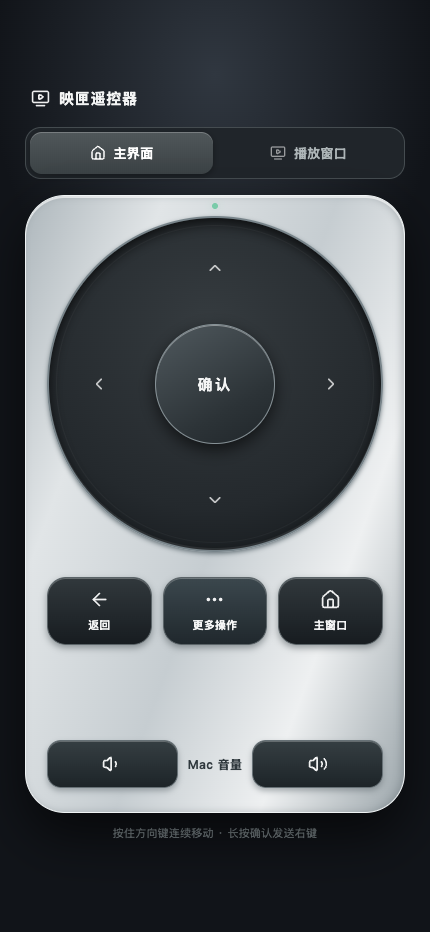
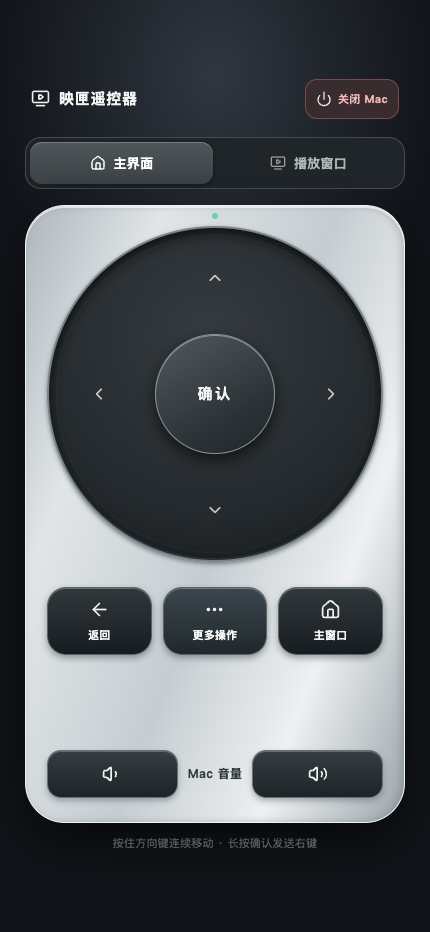
feat: 添加带二次确认的 Mac 关机功能

diff --git a/index.html b/index.html
@@ -17,6 +17,10 @@
     .topline { display: flex; align-items: center; justify-content: space-between; margin: 0 6px 18px; }
     .brand { display: flex; align-items: center; gap: 9px; font-size: 15px; font-weight: 700; letter-spacing: .03em; }
     .brand .icon { width: 19px; height: 19px; }
+    .shutdown { min-height: 40px; padding: 8px 10px; display: flex; align-items: center; gap: 6px; border: 1px solid #784b4b; border-radius: 12px; background: #382c2f; color: #f1b6b6; font-size: 11px; font-weight: 650; }
+    .shutdown .icon { width: 16px; height: 16px; }
+    .shutdown.is-pressed { transform: translateY(1px); background: #51383d; }
+    .shutdown:disabled { opacity: .55; cursor: progress; }
     .connection { position: absolute; top: 10px; left: 50%; width: 6px; height: 6px; transform: translate(-50%, -50%); border-radius: 50%; background: #7acba9; box-shadow: 0 0 9px #7acba960; pointer-events: none; }
     .connection[data-state="error"] { background: #ed8585; box-shadow: 0 0 9px #ed858560; }
     .mode-picker { display: grid; grid-template-columns: 1fr 1fr; padding: 4px; margin-bottom: 16px; gap: 4px; background: #20252a; border: 1px solid #454c50; border-radius: 16px; }
@@ -55,7 +59,8 @@
     body[data-mode="player"] .player-only { display: flex; }
     body[data-mode="player"] .browse-only { display: none; }
     .status { position: absolute; width: 1px; height: 1px; padding: 0; margin: -1px; overflow: hidden; clip-path: inset(50%); white-space: nowrap; }
-    .status[data-kind="error"] { position: fixed; z-index: 4; inset: auto 18px max(20px, env(safe-area-inset-bottom)) 18px; width: auto; height: auto; max-width: 380px; margin: 0 auto; padding: 12px 16px; overflow: visible; clip-path: none; white-space: normal; text-align: center; border: 1px solid #b76a6a; border-radius: 14px; color: #ffe1e1; background: #42282ddd; box-shadow: 0 8px 24px #0008; font-size: 12px; line-height: 1.4; }
+    .status[data-kind="error"], .status[data-kind="notice"] { position: fixed; z-index: 4; inset: auto 18px max(20px, env(safe-area-inset-bottom)) 18px; width: auto; height: auto; max-width: 380px; margin: 0 auto; padding: 12px 16px; overflow: visible; clip-path: none; white-space: normal; text-align: center; border: 1px solid #b76a6a; border-radius: 14px; color: #ffe1e1; background: #42282ddd; box-shadow: 0 8px 24px #0008; font-size: 12px; line-height: 1.4; }
+    .status[data-kind="notice"] { border-color: #578a73; color: #d6f3e5; background: #243c32ee; }
     .tip { margin: 12px 8px 0; text-align: center; color: #798387; font-size: 11px; line-height: 1.5; }
     .player-tip { display: none; }
     body[data-mode="player"] .browse-tip { display: none; }
@@ -76,7 +81,8 @@
     }
     @media (max-height: 700px) { .tip { display: none !important; } }
     @media (max-height: 520px) and (max-width: 599px) {
-      .topline { display: none; }
+      .brand { display: none; }
+      .topline { justify-content: flex-end; }
       .mode-picker button { height: 32px; }
       .remote { padding: 8px 12px 10px; }
       .connection { top: 4px; }
@@ -104,6 +110,7 @@
   <main class="shell">
     <div class="topline">
       <div class="brand"><img class="icon" src="/icons/tv-minimal-play.svg" alt="" />映匣遥控器</div>
+      <button type="button" class="shutdown" id="shutdown"><img class="icon" src="/icons/power.svg" alt="" /><span>关闭 Mac</span></button>
     </div>
     <div class="mode-picker" aria-label="控制窗口">
       <button type="button" data-mode-choice="browse" aria-pressed="true"><img class="icon" src="/icons/house.svg" alt="" />主界面</button>
@@ -139,6 +146,7 @@
   <script>
     const status = document.querySelector('#status');
     const connection = document.querySelector('#connection');
+    const shutdownCommand = 'shutdown';
     let busy = false;
     let repeatTimer;
     let repeatInterval;
@@ -151,17 +159,20 @@
       connection.dataset.state = kind === 'error' ? 'error' : 'ok';
     }
 
-    async function send(command, mode = document.body.dataset.mode) {
+    async function send(command, mode = document.body.dataset.mode, confirmation) {
       if (busy) return false;
       busy = true;
       try {
+        const request = { mode, command };
+        if (confirmation) request.confirmation = confirmation;
         const response = await fetch('/command', {
           method: 'POST', headers: { 'Content-Type': 'application/json' },
-          body: JSON.stringify({ mode, command }),
+          body: JSON.stringify(request),
         });
         const message = await response.text();
         if (!response.ok) throw new Error(message);
-        feedback(command === 'activate' || command.startsWith('volume_') || mode === 'browse' ? message : '已发送：' + commandLabel(command));
+        if (command === shutdownCommand) feedback(message, 'notice');
+        else feedback(command === 'activate' || command.startsWith('volume_') || mode === 'browse' ? message : '已发送：' + commandLabel(command));
         return true;
       } catch (error) {
         feedback(error.message || '连接失败', 'error');
@@ -178,6 +189,15 @@
       button.classList.add('is-pressed');
       if (!sustained) window.setTimeout(() => button.classList.remove('is-pressed'), 190);
     }
+
+    const shutdown = document.querySelector('#shutdown');
+    shutdown.addEventListener('click', async () => {
+      if (busy || !window.confirm('确定关闭这台 Mac 吗？\nMac 将退出所有应用并关机，请先保存未完成的工作。')) return;
+      tactile(shutdown);
+      shutdown.disabled = true;
+      try { await send(shutdownCommand, document.body.dataset.mode, shutdownCommand); }
+      finally { shutdown.disabled = false; }
+    });
 
     document.querySelectorAll('[data-mode-choice]').forEach(button => {
       button.addEventListener('pointerdown', () => tactile(button, true));

diff --git a/MacRemoteApp.swift b/MacRemoteApp.swift
@@ -6,6 +6,7 @@ import Foundation
 
 private let port: UInt16 = 8765
 private let targetBundleID = "com.jo32.yingxia.mac"
+private let shutdownCommand = "shutdown"
 private let keyCodes = [
     "up": 126, "down": 125, "left": 123, "right": 124,
     "select": 36, "back": 53, "play": 49, "fullscreen": 3, "mute": 46,
@@ -218,6 +219,10 @@ private final class RemoteServer {
         guard let request = (try? JSONSerialization.jsonObject(with: body)) as? [String: String],
               let mode = request["mode"], ["browse", "player"].contains(mode),
               let command = request["command"] else { return Response(400, "指令格式错误") }
+        if command == shutdownCommand {
+            guard request["confirmation"] == shutdownCommand else { return Response(400, "请先确认关闭 Mac") }
+            return shutdown()
+        }
         if command == "volume_up" || command == "volume_down" { return volume(command == "volume_up" ? 5 : -5) }
         if command == "activate" { return activate(mode) }
         if mode == "browse" {
@@ -299,6 +304,16 @@ private final class RemoteServer {
         """
         let result = run(URL(fileURLWithPath: "/usr/bin/osascript"), ["-e", script])
         return result.status == 0 ? Response(200, "Mac 音量：\(result.output)%") : Response(409, result.error)
+    }
+
+    private func shutdown() -> Response {
+        let result = run(URL(fileURLWithPath: "/usr/bin/osascript"), ["-e", "tell application \"System Events\" to shut down"])
+        if result.status == 0 { return Response(200, "已请求 Mac 关机；若有未保存文件，请在 Mac 上处理。") }
+        if result.error.contains("(-1743)") {
+            return Response(409, "请在系统设置 → 隐私与安全性 → 自动化中允许映匣遥控器控制 System Events，然后重试")
+        }
+        if result.error == "操作超时" { return Response(409, "关机请求未完成，请在 Mac 上检查保存或授权提示") }
+        return Response(409, result.error.isEmpty ? "无法关闭 Mac，请检查系统授权" : result.error)
     }
 
     private func updateHighlight(_ target: Data?) {

diff --git a/server.py b/server.py
@@ -16,6 +16,7 @@ PORT = 8765
 PAGE = (Path(__file__).parent / "index.html").read_bytes()
 ICONS = Path(__file__).parent / "icons"
 TARGET_BUNDLE_ID = "com.jo32.yingxia.mac"
+SHUTDOWN_COMMAND = "shutdown"
 KEY_CODES = {
     "up": 126,
     "down": 125,
@@ -99,6 +100,12 @@ class RemoteHandler(BaseHTTPRequestHandler):
             mode = request["mode"]
             if mode not in ("browse", "player"):
                 raise ValueError("invalid mode")
+            if command == SHUTDOWN_COMMAND:
+                if request.get("confirmation") != SHUTDOWN_COMMAND:
+                    self.send_text(400, "请先确认关闭 Mac")
+                    return
+                self.send_shutdown()
+                return
             if command in VOLUME_COMMANDS:
                 self.send_volume(VOLUME_COMMANDS[command])
                 return
@@ -209,6 +216,23 @@ class RemoteHandler(BaseHTTPRequestHandler):
         if left_fullscreen:
             message += "（已退出播放全屏）"
         self.send_text(200, message)
+
+    def send_shutdown(self):
+        try:
+            result = subprocess.run(
+                ["/usr/bin/osascript", "-e", 'tell application "System Events" to shut down'],
+                capture_output=True, text=True, timeout=12,
+            )
+        except subprocess.TimeoutExpired:
+            self.send_text(409, "关机请求未完成，请在 Mac 上检查保存或授权提示")
+            return
+        if result.returncode:
+            message = result.stderr.strip() or "无法关闭 Mac，请检查系统授权"
+            if "(-1743)" in message:
+                message = "请在系统设置 → 隐私与安全性 → 自动化中允许当前终端控制 System Events，然后重试"
+            self.send_text(409, message)
+            return
+        self.send_text(200, "已请求 Mac 关机；若有未保存文件，请在 Mac 上处理。")
 
     def send_volume(self, change):
         script = (

diff --git a/README.md b/README.md
@@ -3,7 +3,7 @@
 用同一 Wi-Fi 下的手机浏览器控制 Mac 上的[映匣](https://github.com/jo32/tvbox-silicon)。非官方项目，需要 macOS 13+。
 
 <p align="center">
-  <img src="docs/images/remote.png" alt="映匣遥控器手机界面，包含方向键、确认、返回和 Mac 音量控制" width="320" />
+  <img src="docs/images/remote.png" alt="映匣遥控器手机界面，包含方向键、确认、返回、Mac 音量和关机按钮" width="320" />
 </p>
 
 ## 开始使用
@@ -15,7 +15,7 @@
 
 预览版未经 Apple 公证。若首次打开被阻止，先尝试打开，再到“系统设置 → 隐私与安全性”点“仍要打开”。
 
-服务使用 `8765` 端口且无需登录，**同一网络中能访问该端口的设备都可以遥控**。仅在可信网络中使用，用完从菜单栏退出。
+服务使用 `8765` 端口且无需登录，**同一网络中能访问该端口的设备都可以遥控和发起 Mac 关机**。仅在可信网络中使用，用完从菜单栏退出。
 
 连接失败时，检查 Mac 防火墙和路由器的客户端隔离设置。Mac 的 Wi-Fi 地址变化后，重新打开应用获取新地址。
 
@@ -24,6 +24,7 @@
 - 主界面：方向键选择内容，确认打开，返回上一级。长按确认或点“更多操作”发送右键。
 - 播放窗口：确认键切换播放与暂停，左右跳转，上下调播放器音量，支持全屏和静音。
 - Mac 音量：调节系统输出音量。按住方向键或音量键可连续操作。
+- 关闭 Mac：点右上角电源按钮，确认后请求关机。若有未保存文件或授权提示，需在 Mac 上处理。
 
 顶部标签只切换已有窗口。主界面导航依赖映匣的辅助功能控件，部分页面和版本可能需要适配。
 
